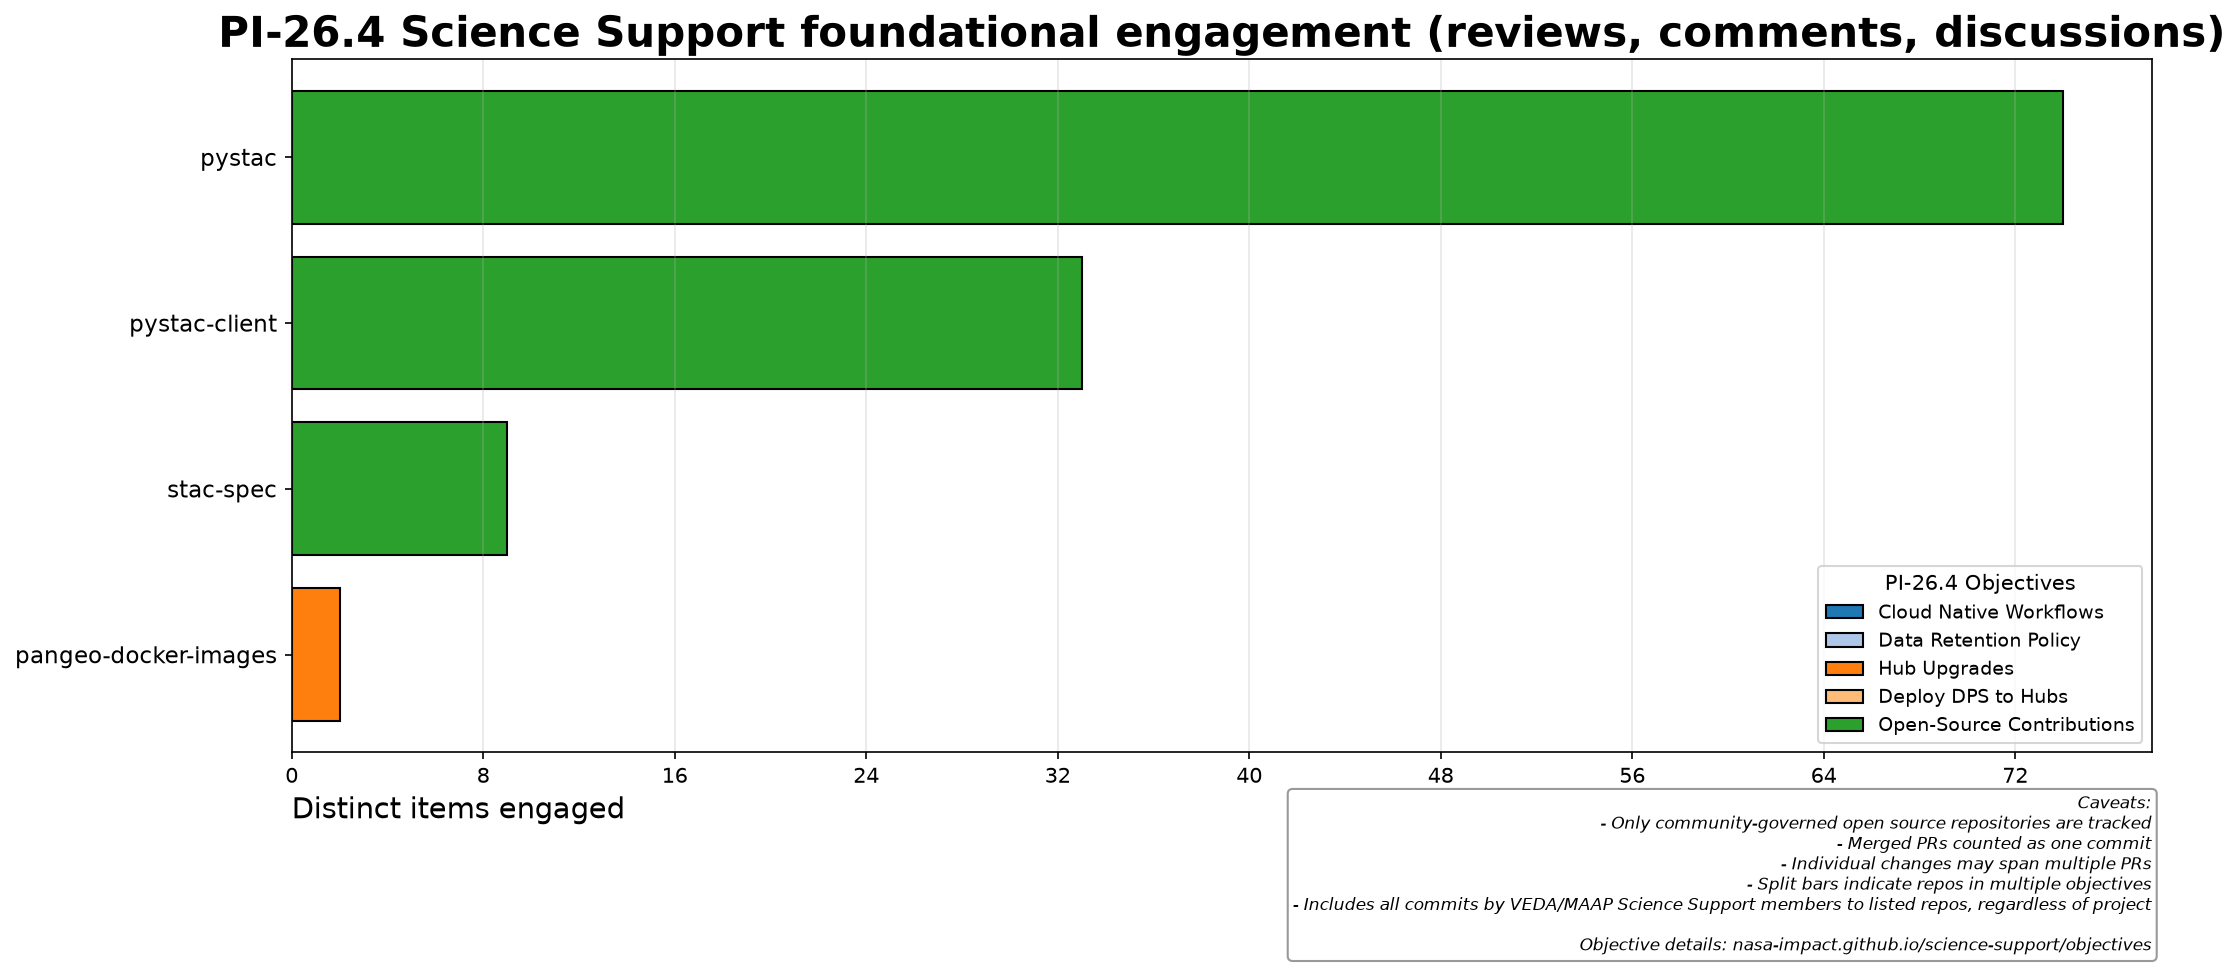
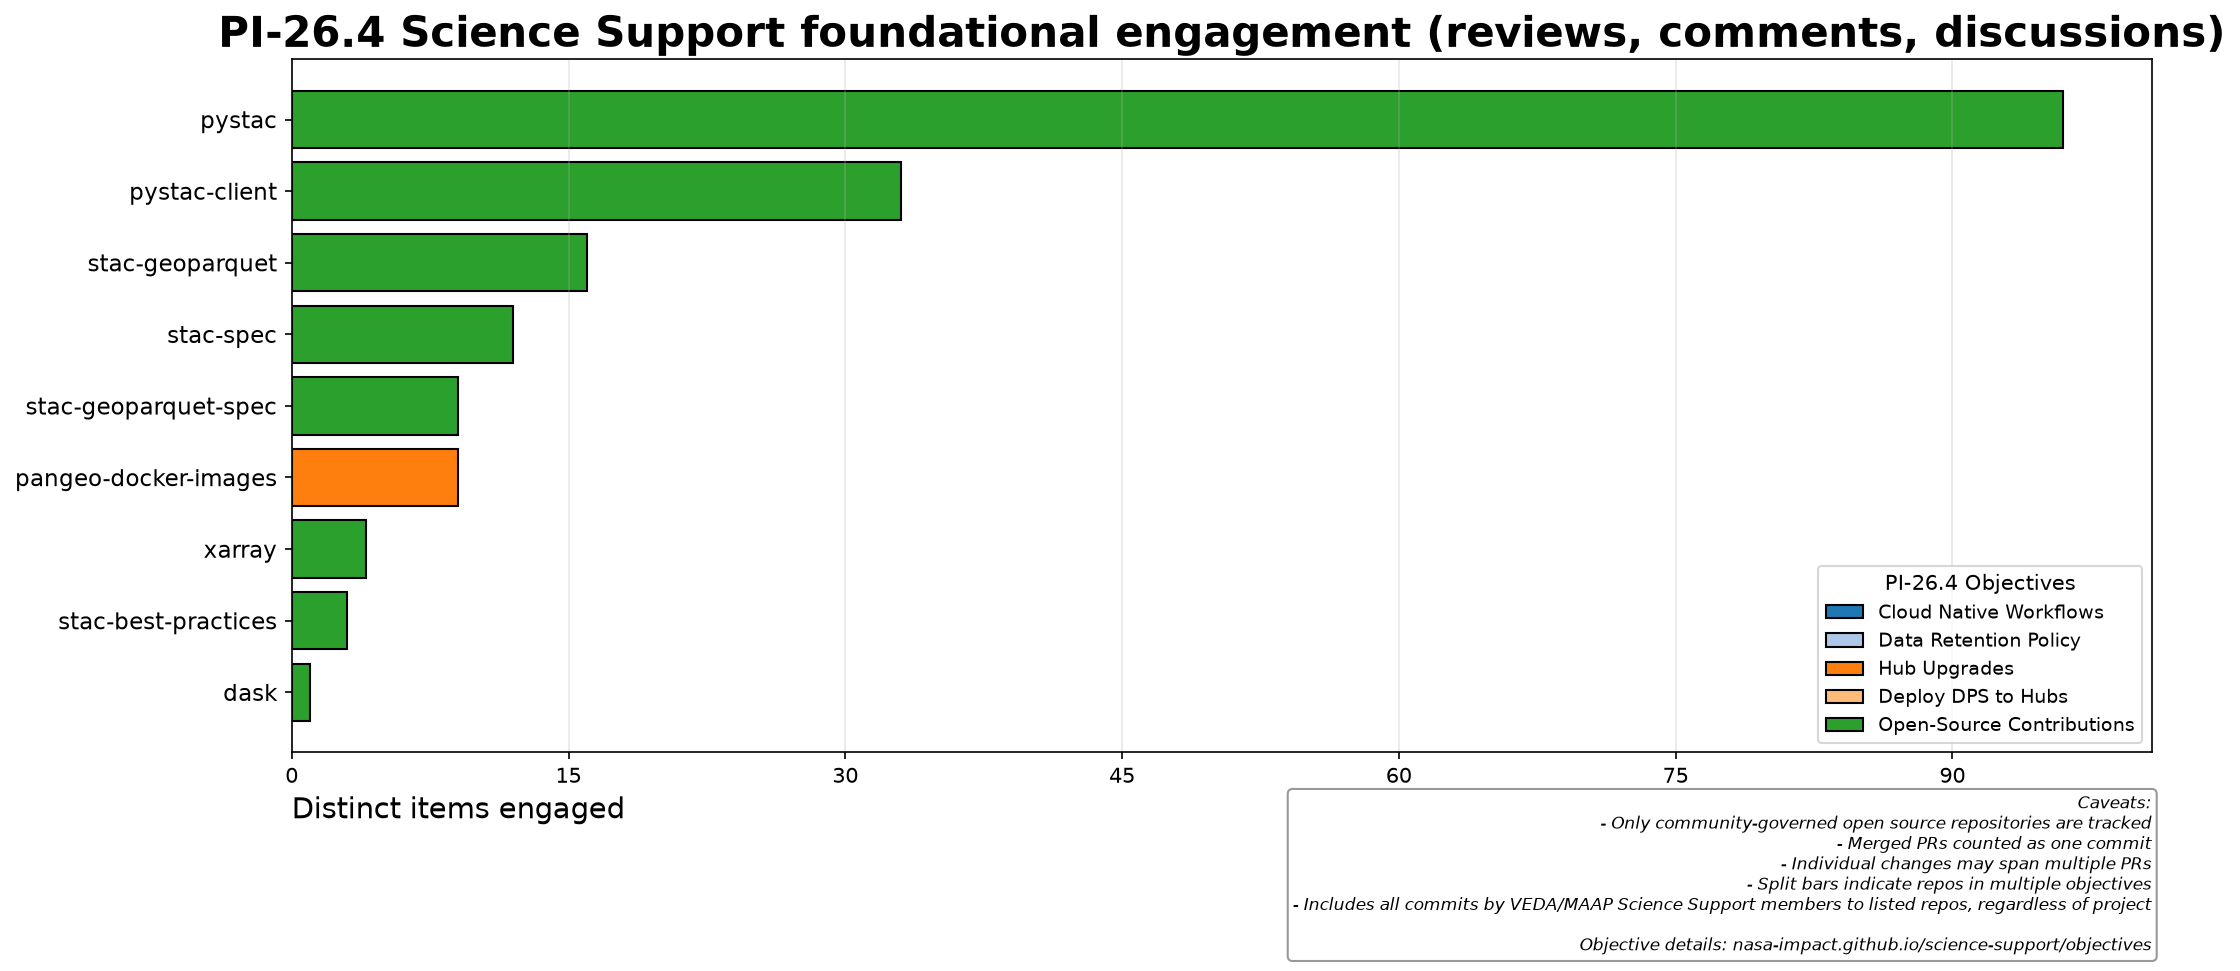
Recreate reports for PI 26.4 (#101)
* Remove reports for PI 26.4

* Don't worry about 27.1 yet

* Update reports for 39671194528 (#102)

* Revert "Don't worry about 27.1 yet"

This reverts commit b458929eefd8a1d1c2b32707143523887597ca5e.

---------

diff --git a/docs/objectives.md b/docs/objectives.md
@@ -2,32 +2,25 @@
 
 This page tracks quarterly objectives for the VEDA/MAAP Science Support team and the open-source repositories they touch across Program Increments (PIs).
 
-## Current PI: 27.1
+## Current PI: 26.4
 
-| # | Objective | Contributors | Repos |
-|---|-----------|--------------|-------|
-| [#89](https://github.com/NASA-IMPACT/science-support/issues/89) | Hub Upgrades | wildintellect, jsignell | pangeo-docker-images, pangeo-notebook-veda-image |
-
----
-
-## Past PIs
-
-<details markdown>
-<summary>PI 26.4 (5 original objectives; 5 closed as completed; 0 closed as not planned)</summary>
-
-| # | Objective | State | Contributors |
-|---|-----------|-------|--------------|
-| [#62](https://github.com/NASA-IMPACT/science-support/issues/62) | Cloud Native Workflows | closed (completed) | omshinde |
-| [#63](https://github.com/NASA-IMPACT/science-support/issues/63) | Data Retention Policy | closed (completed) | smk0033 |
-| [#66](https://github.com/NASA-IMPACT/science-support/issues/66) | Hub Upgrades | closed (completed) | wildintellect |
-| [#67](https://github.com/NASA-IMPACT/science-support/issues/67) | Deploy DPS to Hubs | closed (completed) | wildintellect |
-| [#68](https://github.com/NASA-IMPACT/science-support/issues/68) | Open-Source Contributions | closed (completed) | gadomski |
+![PI-26.4 authored commits](images/pi-26.4-authored-commits.png)
 
 ![PI-26.4 resolved issues and PRs](images/pi-26.4-resolved-issues-prs.png)
 
 ![PI-26.4 foundational engagement](images/pi-26.4-engagement.png)
 
-</details>
+| # | Objective | Contributors | Repos |
+|---|-----------|--------------|-------|
+| [#62](https://github.com/NASA-IMPACT/science-support/issues/62) | Cloud Native Workflows | omshinde | veda-docs, maap-documentation, cloud-optimized-geospatial-formats-guide |
+| [#63](https://github.com/NASA-IMPACT/science-support/issues/63) | Data Retention Policy | smk0033 | - |
+| [#66](https://github.com/NASA-IMPACT/science-support/issues/66) | Hub Upgrades | wildintellect, jsignell | repo2docker-action, pangeo-docker-images, pangeo-notebook-veda-image, workspace_images, r-lasr-feedstock |
+| [#67](https://github.com/NASA-IMPACT/science-support/issues/67) | Deploy DPS to Hubs | wildintellect | - |
+| [#68](https://github.com/NASA-IMPACT/science-support/issues/68) | Open-Source Contributions | gadomski, jsignell | stac-best-practices, stac-spec, dask, pystac, pystac-client, xarray, stac-geoparquet-spec, stac-geoparquet |
+
+---
+
+## Past PIs
 
 <details markdown>
 <summary>PI 26.3 (4 original objectives; 4 closed as completed; 0 closed as not planned)</summary>
